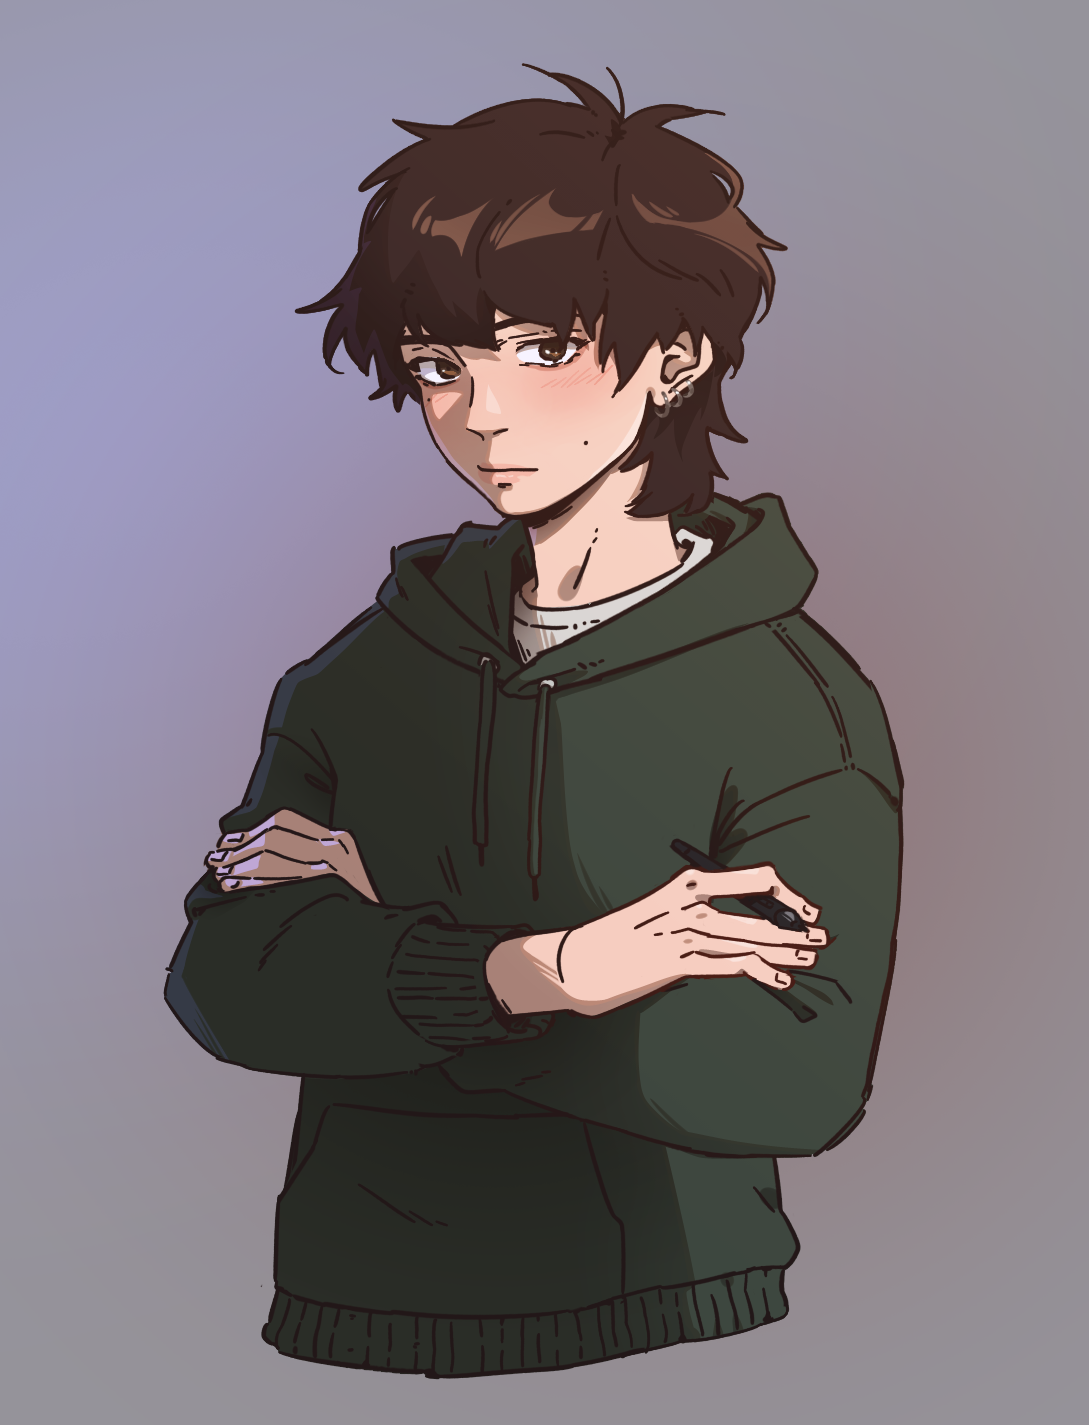
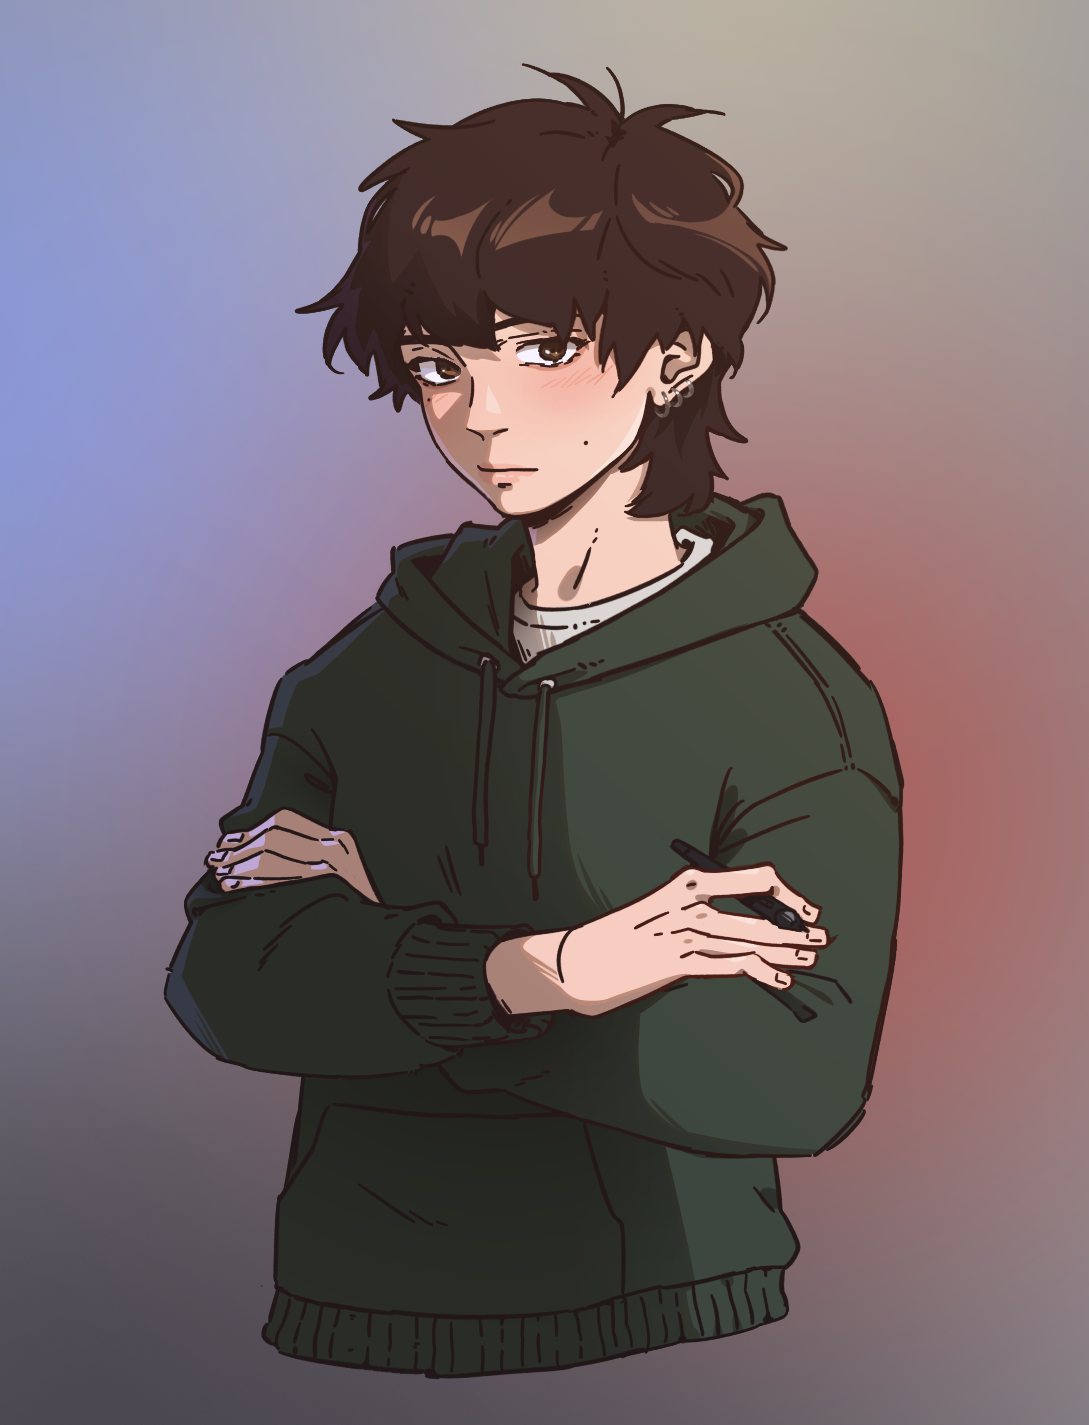
adição do modal e mudança no layout de imagens

Changed region(s): [[0.0, 0.4014, 0.9991, 1.0], [0.4683, 0.0, 0.9054, 0.1853]]

diff --git a/src/routes/Home/Home.jsx b/src/routes/Home/Home.jsx
@@ -14,32 +14,55 @@ import Sketch3 from '../../assets/sketch3.png'
 import Sketch4 from '../../assets/sketch21.png'
 import './index.scss'
 
+import Zoom from 'react-medium-image-zoom'
+import 'react-medium-image-zoom/dist/styles.css'
+
 const Home = () => {
   return (
     <div className='img-container container'>
-        <img className='img-header' src={HeaderImg} alt="header-img" />
+        <Zoom>
+          <img className='img-header' src={HeaderImg} alt="header-img" />
+        </Zoom>
         <div className='grid-container'>
-          <div className='grid-group1'>
-            <img id='item1' src={Link} alt="" />
-            <img id='item2' src={LinkBotw} alt="" />
-            <img id='item3' src={Zelda} alt="" />
-          </div>
-          <div className='grid-group2'>
-            <img id='item4' src={JK} alt="" />
+          <Zoom>
+            <img src={Link} alt="Legend of Zelda - Ocarina of Time" 
+            />
+          </Zoom>
+          <Zoom>
             <img id='item5' src={Slg} alt="" />
-          </div>
-          <div className='grid-group3'>
-            <img id='item6' src={Tlou} alt="" />
-            <img id='item7' src={Faroc} alt="" />
+          </Zoom>
+          <Zoom>
+            <img src={LinkBotw} alt="Legend of Zelda - Breath of the Wild"/>
+          </Zoom>
+          <Zoom>
+            <img src={Zelda} alt="Legend of Zelda - Majora's Mask"/>
+          </Zoom>
+          <Zoom>
+            <img id='item4' src={JK} alt="" />
+          </Zoom>
+          <Zoom>
             <img id='item8' src={Tae} alt="" />
-          </div> 
-          <div className='grid-group4'>
-            <img id='item9' src={Sketch1} alt="" />
+          </Zoom>
+          
+          <Zoom>
+            <img id='item6' src={Tlou} alt="" />
+          </Zoom>
+          <Zoom>
+            <img id='item7' src={Faroc} alt="" />
+          </Zoom>  
+          <Zoom>
             <img id='item10' src={Sketch2} alt="" />
-            <img id='item11' src={Sketch3} alt="" />
+          </Zoom>
+          <Zoom>
+            <img id='item9' src={Sketch1} alt="" />
+          </Zoom>
+          <Zoom>
             <img id='item12' src={Sketch4} alt="" />
-          </div>
-         
+          </Zoom>
+          <Zoom>
+            <img id='item11' src={Sketch3} alt="" />
+          </Zoom>
+          
         </div>
     </div>
   )

diff --git a/src/routes/Home/index.scss b/src/routes/Home/index.scss
@@ -11,7 +11,6 @@
 
 .grid-container img{
     width: 100%;
-    height: 246px;
     margin-bottom: 20px;
     object-fit: cover;
     box-shadow: 0px 11px 3px -5px $black;
@@ -19,80 +18,26 @@
 
 @media (min-width: 1024px){
     .img-header{
-        width: 100%;
         height: 460px;
+    }
+
+    .grid-container{
+        margin-bottom: 100px;
+        width: 100%;
+        columns: 2;
+        column-gap: 15px;
     }
 
     .grid-container img{
         width: 100%;
-        height: 325px;
-        margin-bottom: 0;
+        height: 100%;
+        margin-bottom: 15px;
         object-fit: cover;
     }
-    // GRID
-    #item1 {
-        grid-area: item1;
-        width: 350px;
-        height: 665px;
-    }
-    #item2 {
-        grid-area: item2;
 
-    }
-    #item3 {
-        grid-area: item3;
-    }
-    #item4 {
-        grid-area: item4;
-        height: 410px;
-    }
-    #item5 {
-        grid-area: item5;
-        height: 410px;
-    }
-    #item6 {
-        grid-area: item6;
-    }
-    #item7 {
-        grid-area: item7;
-    }
-    #item8 {
-        grid-area: item8;
-        width: 350px;
-        height: 665px;
-    }
-
-    .grid-group1{
-        display: grid;
-        grid-template-areas: 
-        'item1 item2'
-        'item1 item3';
-        gap: 15px;
-        margin-bottom: 15px;
-    }
-
-    .grid-group2{
-        display: grid;
-        grid-template-areas: 
-        'item4'
-        'item5';
-        gap: 15px;
-        margin-bottom: 15px;
-    }
-
-    .grid-group3{
-        display: grid;
-        grid-template-areas: 
-        'item6 item8'
-        'item7 item8';
-        gap: 15px;
-        margin-bottom: 15px;
-    }
-    .grid-group4{
-        display: grid;
-        grid-template-columns: 1fr 1fr;
-        gap: 15px;
-        margin-bottom: 80px;
+    .grid-box{
+        width: 100%;
+        margin-bottom: 200px;
     }
 }
 
@@ -100,23 +45,9 @@
     .img-header{
         height: 611px;
     }
-
-    .grid-container img{
-        height: 430px;
-    }
-    // GRID
-    #item1 {
-        width: 620px;
-        height: 882px;
-    }
-    #item4{
-        height: 544px;
-    }
-    #item5{
-        height: 544px;
-    }
-    #item8 {
-        width: 620px;
-        height: 882px;
+    
+    .grid-container{
+        margin-bottom: 160px;
+        columns: 3;
     }
 }

diff --git a/src/index.scss b/src/index.scss
@@ -5,11 +5,13 @@
   margin: 0;
   padding: 0;
   box-sizing: border-box;
-
-  background-color: $bg-color;
   text-decoration: none;
   color: $text-color;
   font-family: "Inter", sans-serif;
+}
+
+body{
+  background-color: $bg-color;
 }
 
 .container{
